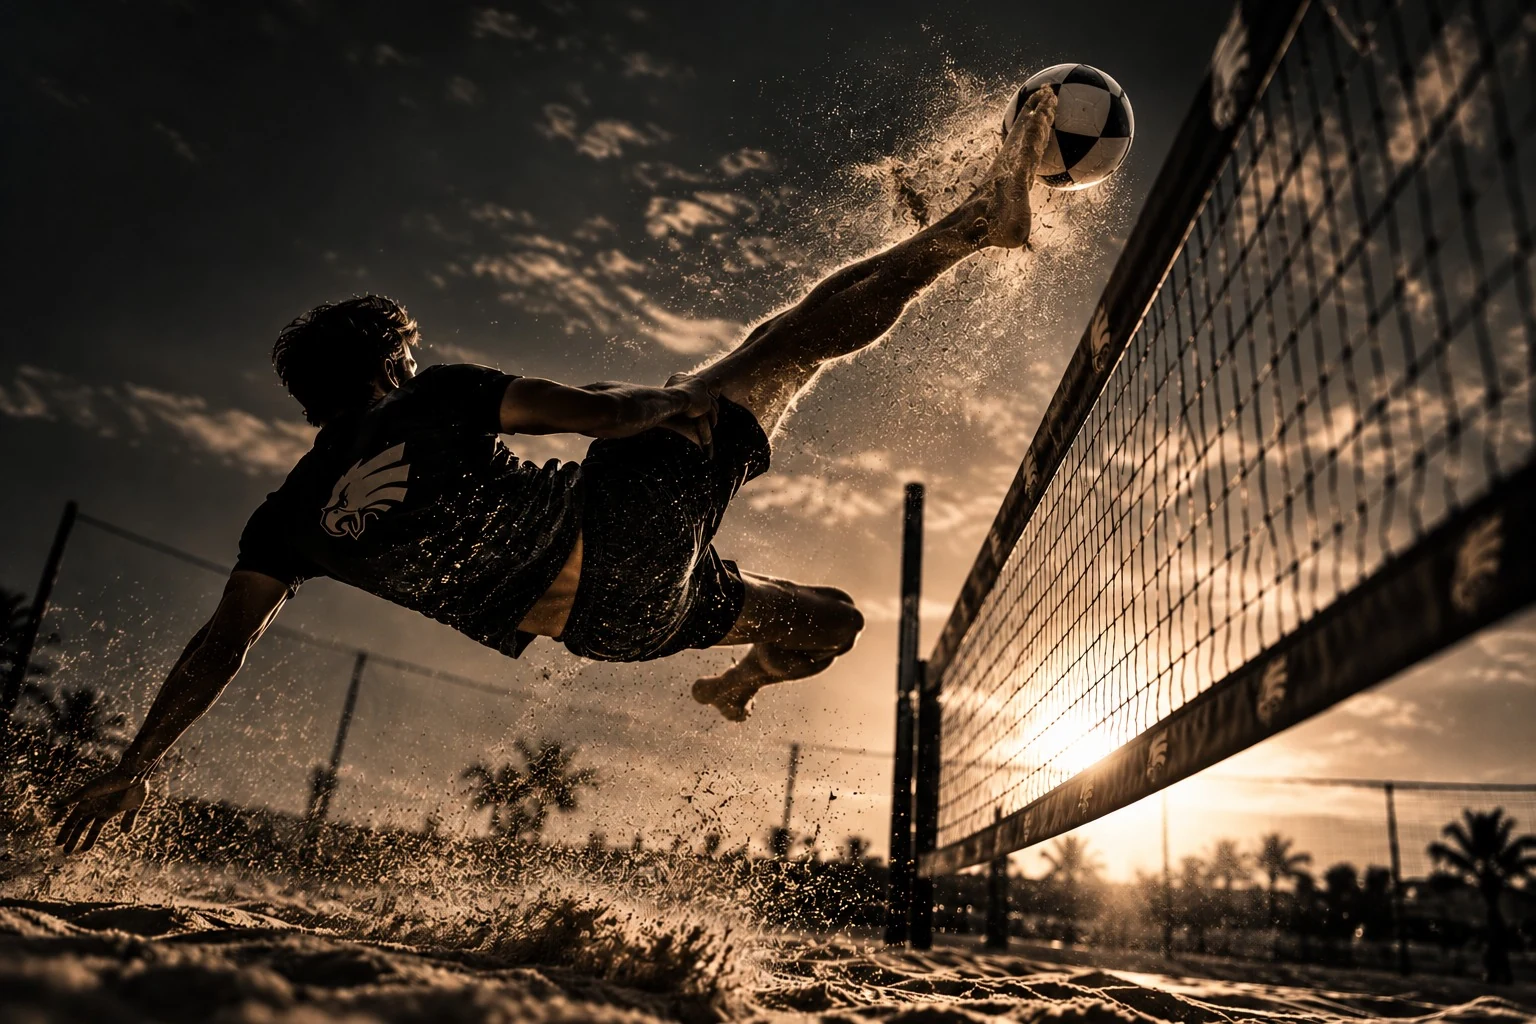
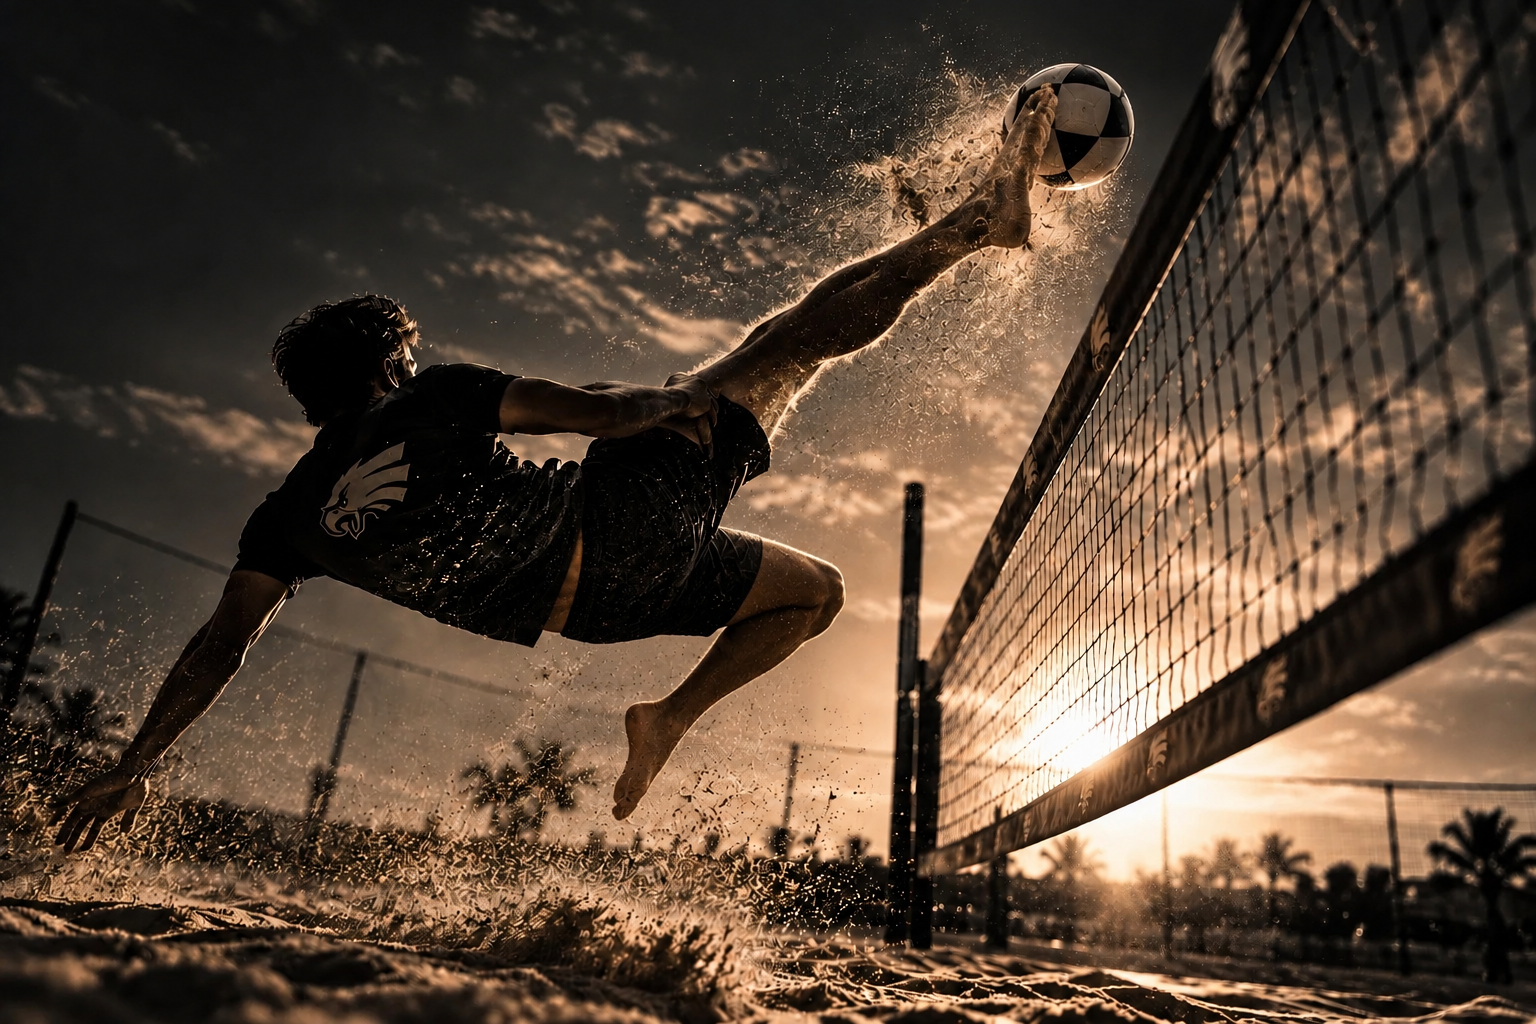
Remove image captions and update footvolley image

diff --git a/index.html b/index.html
@@ -177,7 +177,7 @@
 </nav>
 </div>
 <noscript><style>[aria-controls="menu-mobile"]{display:none!important}.no-script-nav{padding:105px 20px 20px;display:flex;flex-wrap:wrap;gap:20px;font-size:12px}.training-transcript{position:relative;width:auto;height:auto;clip-path:none;padding:30px}.hero-morph{display:none}</style><nav aria-label="Navegação sem JavaScript" class="no-script-nav"><a href="#metodo">O método</a><a href="#team-hawks">Team Hawks</a><a href="#consultoria">Consultoria</a><a href="#contato">Contato</a></nav></noscript><main id="conteudo">
-<section aria-labelledby="hero-title" class="motion-hero" data-motion="01 02" id="inicio"><div class="hero-stage"><div class="hero-intro"><p class="eyebrow">Team Hawks / Futevôlei</p><h1 class="display" id="hero-title">NÃO É SÓ TREINO.<br/><span class="hero-title-outline">É MÉTODO.</span></h1><div class="hero-meta"><p>Movimentação. Leitura. Decisão.<br/>O próximo nível começa dentro da areia.</p><a class="motion-button" href="#metodo"><span>Conhecer o método</span><span aria-hidden="true"><svg aria-hidden="true" fill="none" height="20" stroke="currentColor" stroke-width="1.8" viewBox="0 0 24 24" width="20"><path d="M7 7h10v10M7 17L17 7"></path></svg></span></a></div></div><div class="hero-media media-slot" data-media-slot="hero"><img alt="Águia em voo em direção à câmera, entre a rede e a praia ao pôr do sol" data-fallback="assets/images/hero-alternate.webp" fetchpriority="high" height="941" loading="eager" src="/assets/images/hero-eagle.webp" width="1672"/><div class="hero-media-shade"></div><span class="media-caption">TEAM HAWKS — IDENTIDADE EM MOVIMENTO</span></div><div aria-hidden="true" class="hero-morph"><span class="eyebrow">O movimento tem um propósito.</span><p class="display">BEM-VINDOS<br/>AO TEAM HAWKS.</p></div><div class="hero-bottom eyebrow"><a href="#manifesto">Explore o movimento ↓</a></div></div></section>
+<section aria-labelledby="hero-title" class="motion-hero" data-motion="01 02" id="inicio"><div class="hero-stage"><div class="hero-intro"><p class="eyebrow">Team Hawks / Futevôlei</p><h1 class="display" id="hero-title">NÃO É SÓ TREINO.<br/><span class="hero-title-outline">É MÉTODO.</span></h1><div class="hero-meta"><p>Movimentação. Leitura. Decisão.<br/>O próximo nível começa dentro da areia.</p><a class="motion-button" href="#metodo"><span>Conhecer o método</span><span aria-hidden="true"><svg aria-hidden="true" fill="none" height="20" stroke="currentColor" stroke-width="1.8" viewBox="0 0 24 24" width="20"><path d="M7 7h10v10M7 17L17 7"></path></svg></span></a></div></div><div class="hero-media media-slot" data-media-slot="hero"><img alt="Águia em voo em direção à câmera, entre a rede e a praia ao pôr do sol" data-fallback="assets/images/hero-alternate.webp" fetchpriority="high" height="941" loading="eager" src="/assets/images/hero-eagle.webp" width="1672"/><div class="hero-media-shade"></div></div><div aria-hidden="true" class="hero-morph"><span class="eyebrow">O movimento tem um propósito.</span><p class="display">BEM-VINDOS<br/>AO TEAM HAWKS.</p></div><div class="hero-bottom eyebrow"><a href="#manifesto">Explore o movimento ↓</a></div></div></section>
 <section aria-labelledby="manifesto-title" class="sand-texture section-y relative overflow-hidden text-ink" data-motion="05 06" id="manifesto">
 <div class="shell">
 <div class="reveal flex items-center gap-4 text-umber">
@@ -272,9 +272,7 @@
                   </text>
 </g>
 <circle cx="470" cy="60" data-route-node="3" fill="none" r="8" stroke="currentColor" stroke-width="2"></circle>
-<text fill="currentColor" font-size="10" font-weight="700" letter-spacing="3" opacity=".5" x="40" y="428">
-                  ESQUEMA ILUSTRATIVO · PADRÃO DE DESLOCAMENTO
-                </text>
+
 </svg>
 </div>
 <div class="reveal flex flex-col justify-between border-t-2 border-ink pt-8 lg:col-span-5 lg:pl-6">
@@ -340,7 +338,7 @@
               </p>
 </div>
 </div>
-<div class="method-layout"><div aria-hidden="true" class="method-visual"><div class="method-images"><img alt="" class="method-image" data-stage-image="0" height="1484" loading="lazy" src="/assets/images/method-court.webp" width="1060"/><img alt="" class="method-image" data-stage-image="1" height="1484" loading="lazy" src="/assets/images/method-court.webp" width="1060"/><img alt="" class="method-image" data-stage-image="2" height="1484" loading="lazy" src="/assets/images/method-court.webp" width="1060"/><img alt="" class="method-image" data-stage-image="3" height="1484" loading="lazy" src="/assets/images/method-court.webp" width="1060"/><img alt="" class="method-image" data-stage-image="4" height="1484" loading="lazy" src="/assets/images/method-court.webp" width="1060"/></div><svg class="method-court" viewBox="0 0 400 440"><path class="court-boundary" d="M40 60H360V380H40Z M40 220H360 M40 75H360"></path><path class="court-route" d="M85 330L170 220L280 290L305 140L220 105"></path><circle cx="85" cy="330" r="10"></circle><circle cx="220" cy="105" r="10"></circle></svg><div class="method-visual-label"><span class="eyebrow">MÉTODO TEAM HAWKS</span><p class="display" data-method-label="">01 / Movimentação</p><span class="eyebrow">Esquema ilustrativo · progressão técnica</span></div><div class="method-progress"><span></span></div></div><ol class="method-chapters">
+<div class="method-layout"><div aria-hidden="true" class="method-visual"><div class="method-images"><img alt="" class="method-image" data-stage-image="0" height="1484" loading="lazy" src="/assets/images/method-court.webp" width="1060"/><img alt="" class="method-image" data-stage-image="1" height="1484" loading="lazy" src="/assets/images/method-court.webp" width="1060"/><img alt="" class="method-image" data-stage-image="2" height="1484" loading="lazy" src="/assets/images/method-court.webp" width="1060"/><img alt="" class="method-image" data-stage-image="3" height="1484" loading="lazy" src="/assets/images/method-court.webp" width="1060"/><img alt="" class="method-image" data-stage-image="4" height="1484" loading="lazy" src="/assets/images/method-court.webp" width="1060"/></div><svg class="method-court" viewBox="0 0 400 440"><path class="court-boundary" d="M40 60H360V380H40Z M40 220H360 M40 75H360"></path><path class="court-route" d="M85 330L170 220L280 290L305 140L220 105"></path><circle cx="85" cy="330" r="10"></circle><circle cx="220" cy="105" r="10"></circle></svg><div class="method-visual-label"><span class="eyebrow">MÉTODO TEAM HAWKS</span><p class="display" data-method-label="">01 / Movimentação</p></div><div class="method-progress"><span></span></div></div><ol class="method-chapters">
 <li class="method-chapter" data-stage="0">
 <span class="chapter-number display">
                 01
@@ -408,9 +406,9 @@
 <picture>
 <img alt="Composição editorial em preto e branco de Fábio Marconi jogando futevôlei" class="aspect-[4/5] w-full object-cover sm:aspect-[638/845]" decoding="async" fetchpriority="auto" height="1448" loading="lazy" src="/assets/images/fabio-editorial.webp" width="1086"/>
 </picture>
-<span class="eyebrow absolute bottom-0 left-0 bg-bone px-4 py-3 text-ink">Fábio Marconi · editorial</span>
+
 </div>
-<div aria-expanded="false" aria-label="Ampliar: Fábio Marconi na quadra" class="editorial-secondary media-slot hover-image" data-media-slot="coach" role="button" tabindex="0"><img alt="Fábio Marconi com uma bola na quadra de futevôlei" height="1600" loading="lazy" src="/assets/images/fabio-training-01.webp" width="1200"/><span class="slot-label">Fábio Marconi · na quadra</span></div></div>
+<div aria-expanded="false" aria-label="Ampliar: Fábio Marconi na quadra" class="editorial-secondary media-slot hover-image" data-media-slot="coach" role="button" tabindex="0"><img alt="Fábio Marconi com uma bola na quadra de futevôlei" height="1600" loading="lazy" src="/assets/images/fabio-training-01.webp" width="1200"/></div></div>
 <div class="flex flex-col lg:col-span-7 lg:pl-6">
 <div class="reveal flex items-center gap-4 text-umber">
 <span class="eyebrow">03</span>
@@ -636,7 +634,7 @@
 <picture>
 <img alt="Fábio Marconi com bolas e rede na quadra de futevôlei" class="w-full object-cover transition-[scale,filter] duration-[1.2s] ease-hawk group-hover:scale-[1.04] group-hover:brightness-110" decoding="async" fetchpriority="auto" height="1600" loading="lazy" src="/assets/images/fabio-training-02.webp" width="1200"/>
 </picture>
-<figcaption class="eyebrow absolute inset-x-0 bottom-0 translate-y-1 bg-gradient-to-t from-ink/90 to-transparent px-5 pt-12 pb-5 text-bone/90 opacity-90 transition-[translate,opacity] duration-500 ease-hawk group-hover:translate-y-0 group-hover:opacity-100">Fábio na quadra · registro Team Hawks</figcaption>
+
 </figure>
 </li>
 <li class="reveal break-inside-avoid">
@@ -661,7 +659,7 @@
 <div aria-label="Identidade e registros Team Hawks" aria-roledescription="carrossel" class="stack-collection" data-motion="08" role="region"><div class="stack-heading"><p class="eyebrow">Nossa identidade. Nossa história.</p><h3 class="display">MAIS QUE UM TIME.</h3><p>Pessoas e encontros que fazem parte da nossa história.</p><div class="stack-story"><h4>A conexão vai além da areia.</h4><p>Cada treino aproxima. Cada encontro vira memória. É assim que o Team Hawks constrói sua história: com parceria, amizade e vontade de evoluir juntos.</p></div></div><div aria-label="Galeria de imagens. Use as setas para navegar." class="image-stack" tabindex="0"><figure aria-hidden="false" class="stack-card" data-stack-card="0"><img alt="Grupo reunido em um encontro do Team Hawks" height="1600" loading="lazy" src="/assets/images/team-event-01.webp" width="1200"/><figcaption>Encontro do Team Hawks</figcaption></figure><figure aria-hidden="true" class="stack-card" data-stack-card="1"><img alt="Integrantes do grupo reunidos em uma mesa" height="1600" loading="lazy" src="/assets/images/team-event-02.webp" width="1200"/><figcaption>Momentos fora da areia</figcaption></figure><figure aria-hidden="true" class="stack-card" data-stack-card="2"><img alt="Fábio Marconi com bolas na quadra de futevôlei" height="1600" loading="lazy" src="/assets/images/fabio-training-02.webp" width="1200"/><figcaption>Fábio na quadra</figcaption></figure><figure aria-hidden="true" class="stack-card" data-stack-card="3"><img alt="Grupo Team Hawks na quadra de areia" height="1280" loading="lazy" src="/assets/images/team-group.webp" width="960"/><figcaption>Nosso time</figcaption></figure></div><div class="stack-controls"><button aria-label="Imagem anterior" data-stack-prev="" type="button"><svg aria-hidden="true" fill="none" height="22" stroke="currentColor" stroke-width="1.5" viewBox="0 0 24 24" width="22"><path d="M19 12H5m7 7-7-7 7-7"></path></svg></button><p aria-live="polite" data-stack-status="">01 / 04 — Encontro do Team Hawks</p><button aria-label="Próxima imagem" data-stack-next="" type="button"><svg aria-hidden="true" fill="none" height="22" stroke="currentColor" stroke-width="1.5" viewBox="0 0 24 24" width="22"><path d="M5 12h14m-7-7 7 7-7 7"></path></svg></button><button aria-label="Ver imagem atual em tamanho completo" class="stack-open" type="button"><svg aria-hidden="true" fill="none" height="20" stroke="currentColor" stroke-width="1.5" viewBox="0 0 24 24" width="20"><path d="M8 3H3v5m13-5h5v5M3 16v5h5m13-5v5h-5M3 3l6 6m12-6-6 6M3 21l6-6m12 6-6-6"></path></svg></button></div><div class="future-media"><figure class="photo-placeholder" data-image-ratio="portrait" data-media-slot="team">
 <svg aria-hidden="true" width="24" height="24" viewBox="0 0 24 24" fill="none" stroke="currentColor" stroke-width="1.4" stroke-linecap="round" stroke-linejoin="round"><path d="M14.5 4h-5L7 7H4a2 2 0 0 0-2 2v9a2 2 0 0 0 2 2h16a2 2 0 0 0 2-2V9a2 2 0 0 0-2-2h-3z"/><circle cx="12" cy="13" r="4"/></svg>
 <figcaption><span class="photo-placeholder-title">Team Hawks em ação</span><span class="photo-placeholder-status">Foto em breve</span><span class="photo-placeholder-request">Fábio, enviar foto dos alunos durante um treino ou uma partida de futevôlei.</span><span class="photo-placeholder-format">Foto vertical · Enviar arquivo original</span></figcaption>
-</figure><figure aria-expanded="false" aria-label="Ampliar: NOSSO TIME" class="media-slot hover-image documentary-frame" data-media-slot="events" role="button" tabindex="0"><img alt="Integrantes do Team Hawks reunidos na quadra de areia" height="1280" loading="lazy" src="/assets/images/team-group.webp" width="960"/><figcaption>NOSSO TIME<span class="media-kind">Registro do Team Hawks</span></figcaption></figure></div><div class="video-section video-events" aria-labelledby="events-videos-title"><h3 class="display events-videos-title" id="events-videos-title">EVENTOS E BASTIDORES</h3><div class="video-grid" data-video-group="events"><!-- videos:events --></div></div></div></div>
+</figure><figure aria-expanded="false" aria-label="Ampliar: NOSSO TIME" class="media-slot hover-image documentary-frame" data-media-slot="events" role="button" tabindex="0"><img alt="Integrantes do Team Hawks reunidos na quadra de areia" height="1280" loading="lazy" src="/assets/images/team-group.webp" width="960"/></figure></div><div class="video-section video-events" aria-labelledby="events-videos-title"><h3 class="display events-videos-title" id="events-videos-title">EVENTOS E BASTIDORES</h3><div class="video-grid" data-video-group="events"><!-- videos:events --></div></div></div></div>
 </section><section aria-labelledby="treino-title" class="training-section" data-motion="03 05" id="treino"><div class="training-stage"><div class="training-media media-slot" data-media-slot="training"><img alt="Composição visual de futevôlei junto à rede" height="1024" loading="lazy" src="/assets/images/footvolley-action.webp" width="1536"/></div><div class="training-shade"></div><div class="training-top"><span class="eyebrow">A técnica encontra o jogo.</span></div><div class="training-copy"><p class="eyebrow">Disciplina dentro da areia / <span data-training-index="">01</span></p><h2 class="display" id="treino-title"><span data-training-word="">POSICIONE.</span></h2><p data-training-description="">Chegar melhor à bola começa por uma base consistente.</p></div><div class="training-bottom"><div aria-hidden="true" class="training-dots"><i class="active"></i><i></i><i></i></div></div></div><div class="training-transcript"><h3>Sequência técnica</h3><ol><li>Posicione. Chegar melhor à bola começa por uma base consistente.</li><li>Leia. Entenda a trajetória antes de escolher o movimento.</li><li>Execute. Transforme a decisão em um fundamento eficiente.</li></ol></div><div class="shell video-section"><p class="eyebrow video-section-label">O treino em movimento</p><div class="video-grid" data-video-group="training"><!-- videos:training --></div></div></section><section aria-labelledby="consultoria-title" class="grain relative bg-ink" data-motion="07 10" id="consultoria">
 <div class="shell section-y relative z-10">
 <div class="grid gap-16 lg:grid-cols-12 lg:gap-12">
